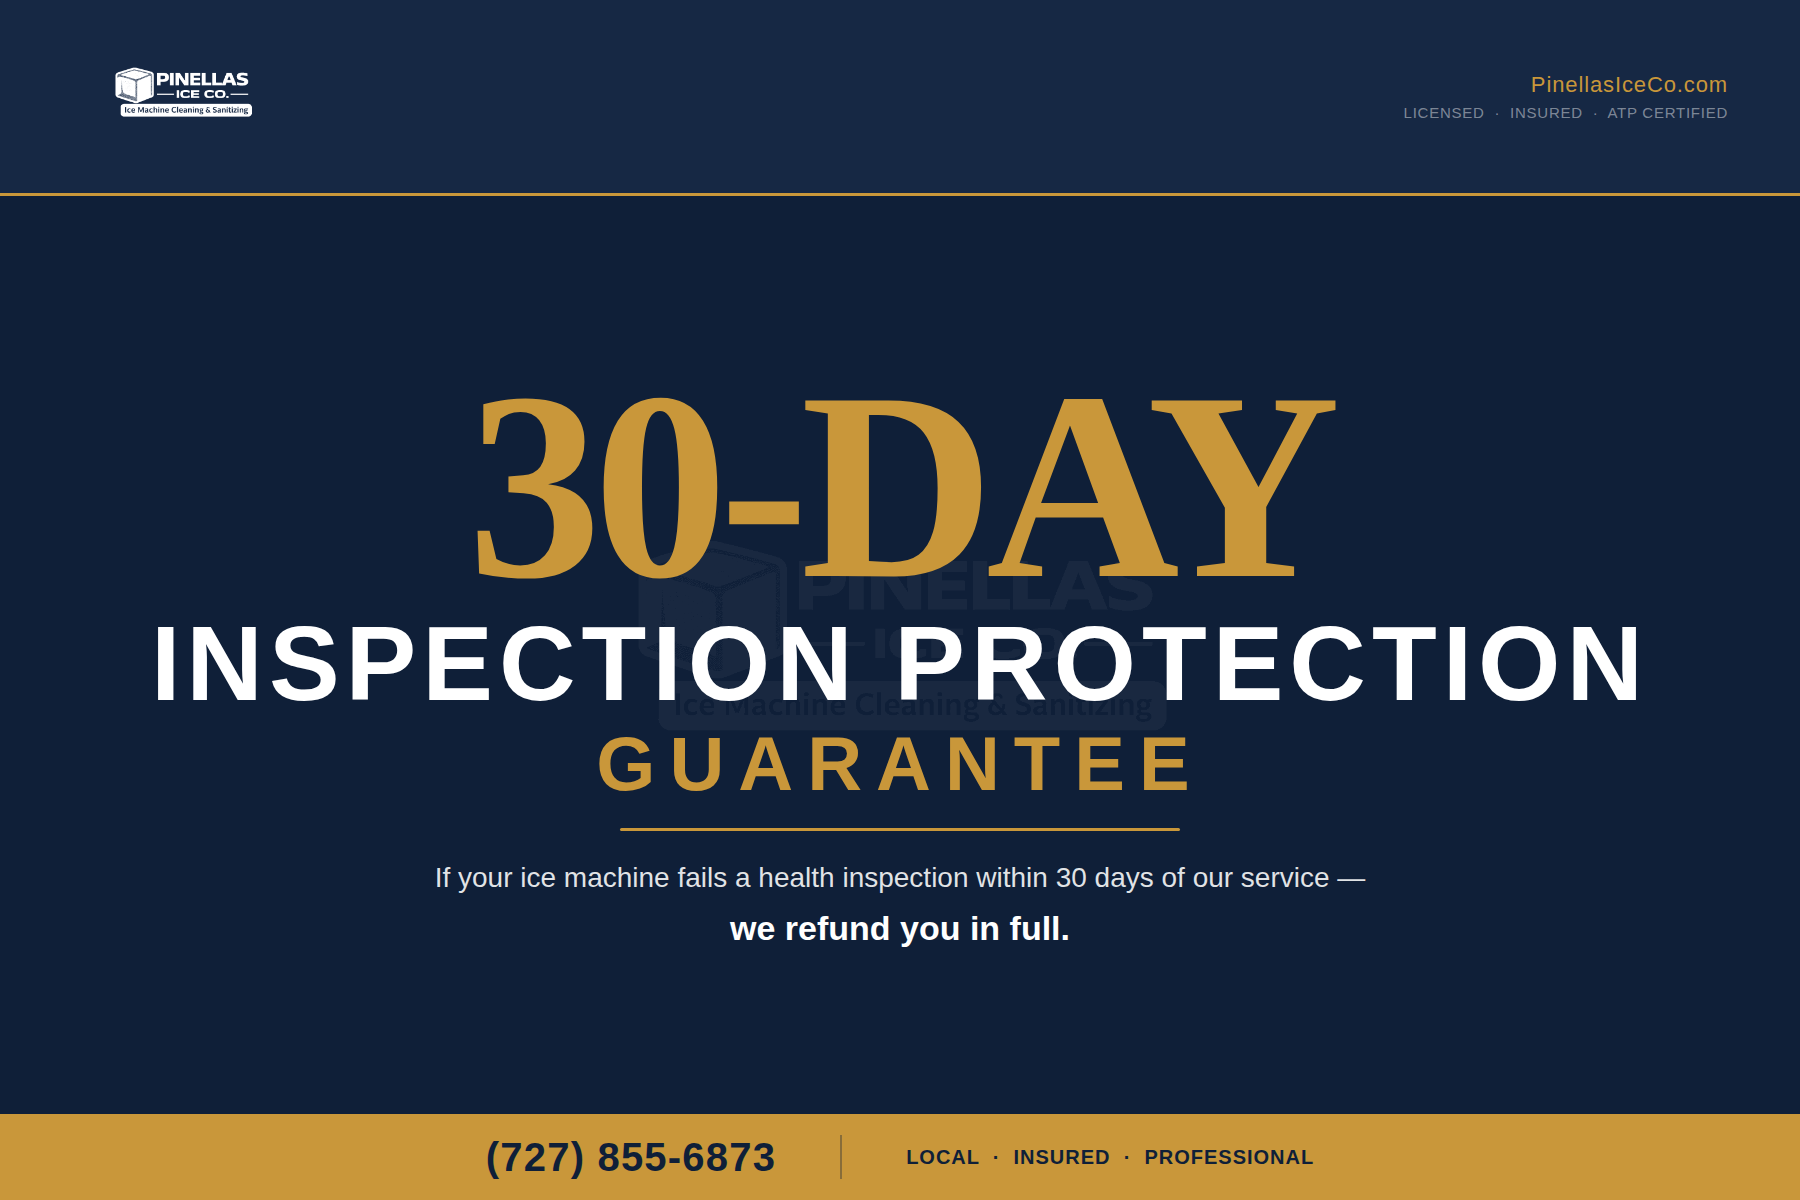
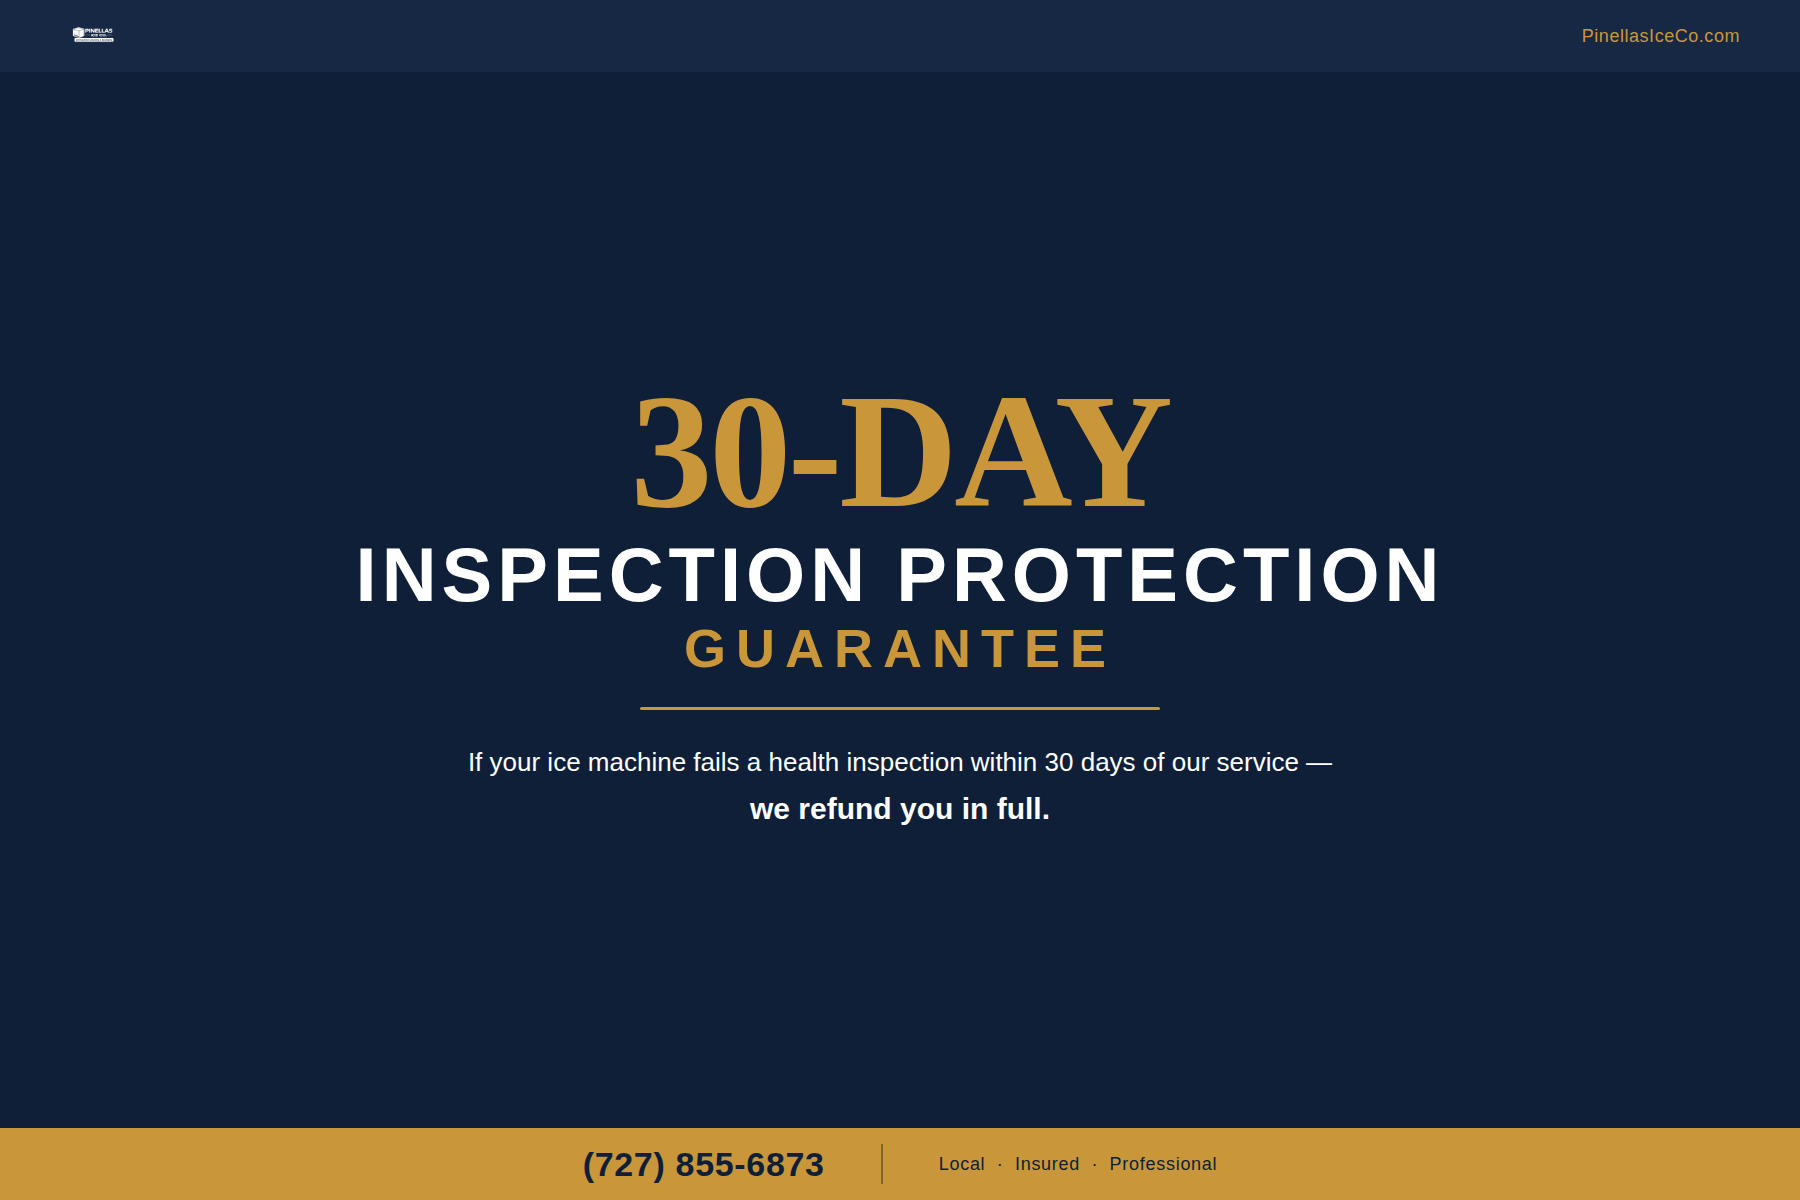
Daily rebuild 2026-05-18 00:53

diff --git a/sw.js b/sw.js
@@ -1,4 +1,4 @@
-const CACHE_NAME='pic-202605180031';
+const CACHE_NAME='pic-202605180053';
 const ASSETS=['./','/Pinellasiceco/index.html'];
 self.addEventListener('install',e=>{
   e.waitUntil(caches.open(CACHE_NAME).then(c=>c.addAll(ASSETS).catch(()=>{})));

diff --git a/docs/guarantee-card/render.py b/docs/guarantee-card/render.py
@@ -50,134 +50,95 @@ def make_front() -> str:
     overflow: hidden;
     background: #0f1f38;
     font-family: 'Barlow', sans-serif;
-    display: flex;
-    flex-direction: column;
   }}
 
-  /* TOP BAR — tall enough for a real logo */
+  /* TOP BAR */
   .top-bar {{
-    width: 1800px; height: 196px;
+    width: 1800px; height: 72px;
     background: #162844;
     display: flex;
     align-items: center;
     justify-content: space-between;
-    padding: 0 72px;
+    padding: 0 60px;
     flex-shrink: 0;
-    border-bottom: 3px solid #c9973a;
   }}
   .top-bar img {{
-    height: 148px;
-    max-width: 700px;
-    object-fit: contain;
-    object-position: left center;
+    height: 44px;
     filter: brightness(0) invert(1);
     display: block;
-  }}
-  .top-bar-right {{
-    text-align: right;
-    flex-shrink: 0;
   }}
   .top-bar-url {{
     font-family: 'Barlow', sans-serif;
     font-weight: 500;
-    font-size: 22px;
+    font-size: 18px;
     color: #c9973a;
-    letter-spacing: 0.04em;
-    display: block;
-  }}
-  .top-bar-sub {{
-    font-family: 'Barlow', sans-serif;
-    font-weight: 400;
-    font-size: 15px;
-    color: rgba(255,255,255,0.45);
-    letter-spacing: 0.05em;
-    text-transform: uppercase;
-    margin-top: 6px;
-    display: block;
+    letter-spacing: 0.03em;
   }}
 
-  /* HERO — fills the space between bars */
+  /* HERO */
   .hero {{
     flex: 1;
-    position: relative;
     display: flex;
     flex-direction: column;
     align-items: center;
     justify-content: center;
-    padding: 28px 100px 20px;
+    padding: 0 80px;
     text-align: center;
-    overflow: hidden;
-  }}
-  /* Faint watermark logo fills background */
-  .hero-watermark {{
-    position: absolute;
-    top: 50%; left: 50%;
-    transform: translate(-50%, -50%);
-    width: 860px;
-    opacity: 0.04;
-    filter: brightness(0) invert(1);
-    pointer-events: none;
   }}
   .headline-number {{
     font-family: 'Playfair Display', serif;
     font-weight: 900;
-    font-size: 268px;
+    font-size: 164px;
     color: #c9973a;
-    line-height: 0.9;
-    letter-spacing: -0.03em;
-    position: relative;
+    line-height: 1;
+    letter-spacing: -0.02em;
   }}
   .headline-desc {{
     font-family: 'Barlow Condensed', sans-serif;
     font-weight: 800;
-    font-size: 106px;
+    font-size: 76px;
     color: #ffffff;
-    letter-spacing: 6px;
+    letter-spacing: 5px;
     line-height: 1;
     margin-top: 4px;
     text-transform: uppercase;
-    position: relative;
   }}
   .headline-guarantee {{
     font-family: 'Barlow Condensed', sans-serif;
     font-weight: 700;
-    font-size: 76px;
+    font-size: 54px;
     color: #c9973a;
-    letter-spacing: 14px;
+    letter-spacing: 10px;
     line-height: 1;
-    margin-top: 10px;
+    margin-top: 8px;
     text-transform: uppercase;
-    position: relative;
   }}
   .gold-rule {{
-    width: 560px;
+    width: 520px;
     height: 3px;
     background: #c9973a;
-    margin: 26px auto;
+    margin: 32px auto;
     border-radius: 2px;
-    position: relative;
   }}
   .promise-line1 {{
     font-family: 'Barlow', sans-serif;
     font-weight: 400;
-    font-size: 28px;
-    color: rgba(255,255,255,0.88);
-    line-height: 1.5;
-    position: relative;
+    font-size: 26px;
+    color: #ffffff;
+    line-height: 1.55;
   }}
   .promise-line2 {{
     font-family: 'Barlow', sans-serif;
     font-weight: 700;
-    font-size: 34px;
+    font-size: 30px;
     color: #ffffff;
-    line-height: 1.4;
-    margin-top: 6px;
-    position: relative;
+    line-height: 1.5;
+    margin-top: 4px;
   }}
 
   /* FOOTER */
   .footer-bar {{
-    width: 1800px; height: 86px;
+    width: 1800px; height: 72px;
     background: #c9973a;
     display: flex;
     align-items: center;
@@ -188,41 +149,44 @@ def make_front() -> str:
   .footer-phone {{
     font-family: 'Barlow Condensed', sans-serif;
     font-weight: 800;
-    font-size: 40px;
+    font-size: 34px;
     color: #0f1f38;
-    padding: 0 64px 0 72px;
-    letter-spacing: 0.03em;
+    padding: 0 56px 0 60px;
+    letter-spacing: 0.02em;
   }}
   .footer-rule {{
-    width: 2px; height: 44px;
-    background: rgba(15,31,56,0.35);
+    width: 2px;
+    height: 40px;
+    background: #0f1f38;
+    opacity: 0.4;
     flex-shrink: 0;
   }}
   .footer-tagline {{
     font-family: 'Barlow', sans-serif;
-    font-weight: 600;
-    font-size: 20px;
+    font-weight: 500;
+    font-size: 18px;
     color: #0f1f38;
-    padding: 0 72px 0 64px;
-    letter-spacing: 0.05em;
-    text-transform: uppercase;
+    padding: 0 60px 0 56px;
+    letter-spacing: 0.04em;
+  }}
+
+  /* layout */
+  body {{
+    display: flex;
+    flex-direction: column;
   }}
 </style>
 </head>
 <body>
 
-  <!-- TOP BAR — large logo -->
+  <!-- TOP BAR -->
   <div class="top-bar">
     <img src="{LOGO}" alt="Pinellas Ice Co">
-    <div class="top-bar-right">
-      <span class="top-bar-url">PinellasIceCo.com</span>
-      <span class="top-bar-sub">Licensed &nbsp;&middot;&nbsp; Insured &nbsp;&middot;&nbsp; ATP Certified</span>
-    </div>
+    <span class="top-bar-url">PinellasIceCo.com</span>
   </div>
 
   <!-- HERO -->
   <div class="hero">
-    <img class="hero-watermark" src="{LOGO}" alt="">
     <div class="headline-number">30-DAY</div>
     <div class="headline-desc">INSPECTION PROTECTION</div>
     <div class="headline-guarantee">GUARANTEE</div>
